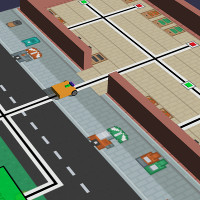
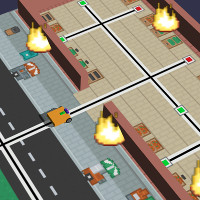
* Add in sprite fire

diff --git a/public/js/world_FireRescue.js b/public/js/world_FireRescue.js
@@ -131,8 +131,8 @@ var world_FireRescue = new function() {
     );
   };
 
-  // Add fire at position
-  this.addFire = function(scene, fires, pos) {
+  // Add particlefire at position. SLOW!
+  this.addParticleFire = function(scene, fires, pos) {
     BABYLON.ParticleHelper.CreateAsync("fire", scene).then((set) => {
       fires.push(set);
       set.systems.forEach(function(sys){
@@ -143,6 +143,26 @@ var world_FireRescue = new function() {
     });
   };
 
+  // Add fire using sprite manager
+  this.addSpriteFire = function(scene, positions, size) {
+    var spriteManagerFire = new BABYLON.SpriteManager('FireManager', 'textures/maps/Fire Rescue/fire.png', 10, {width: 15, height: 20}, scene);
+
+    let fires = [];
+    positions.forEach(function(position){
+      let fire = new BABYLON.Sprite('fire', spriteManagerFire);
+      fire.position.x = position[0];
+      fire.position.y = position[1] + size / 2;
+      fire.position.z = position[2];
+      fire.size = size;
+      setTimeout(function(){
+        fire.playAnimation(0, 3, true, 100);
+      }, Math.random() * 400);
+      fires.push(fire);
+    });
+
+    return fires;
+  }
+
   // Grocers challenge
   this.loadGrocers = function(scene) {
     self.loadImageTile(
@@ -151,18 +171,14 @@ var world_FireRescue = new function() {
       [300, 300]
     );
 
-    // Disable due to performance penalty
-    // self.fires = [];
-    // let fires = [
-    //   [-85,3.5],
-    //   [40.7,1.9],
-    //   [-47.4,126.3],
-    //   [78.9,127.9],
-    //   [120.3,40.7],
-    // ];
-    // fires.forEach(function(fire) {
-    //   self.addFire(scene, self.fires, [fire[0], 0, fire[1]]);
-    // });
+    let fires = [
+      [-85,0,3.5],
+      [40.7,0,1.9],
+      [-47.4,0,126.3],
+      [78.9,0,127.9],
+      [120.3,0,40.7],
+    ];
+    self.addSpriteFire(scene, fires, 30);
 
     let wallMat = new BABYLON.StandardMaterial('wall', scene);
     wallMat.diffuseColor = new BABYLON.Color3(0.72, 0.45, 0.40);
@@ -316,7 +332,7 @@ var world_FireRescue = new function() {
       simPanel.showWorldInfoPanel();
 
       if (self.options.challenge == 'grocers') {
-        self.loadGrocers();
+        self.loadGrocers(scene);
       }
 
       resolve();

diff --git a/public/js/babylon.js b/public/js/babylon.js
@@ -185,7 +185,7 @@ var babylon = new function() {
 
       // Reset the world if needed
       if (self.world.reset) {
-        setTimeout(function(){self.world.reset();}, 500);
+        self.world.reset();
       }
 
       // self.engine.hideLoadingUI();
